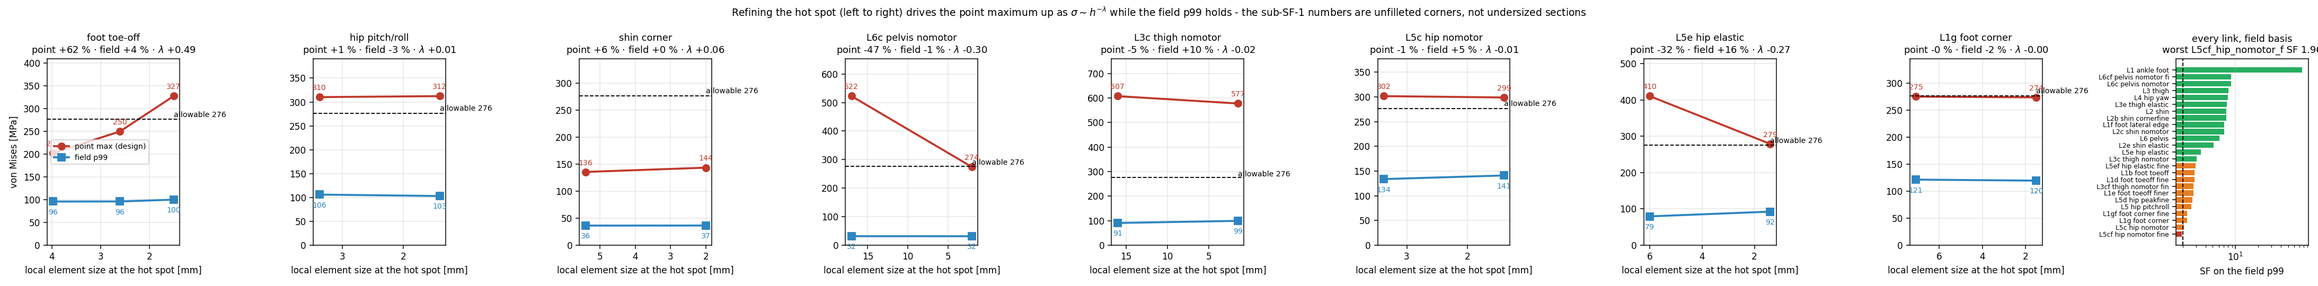
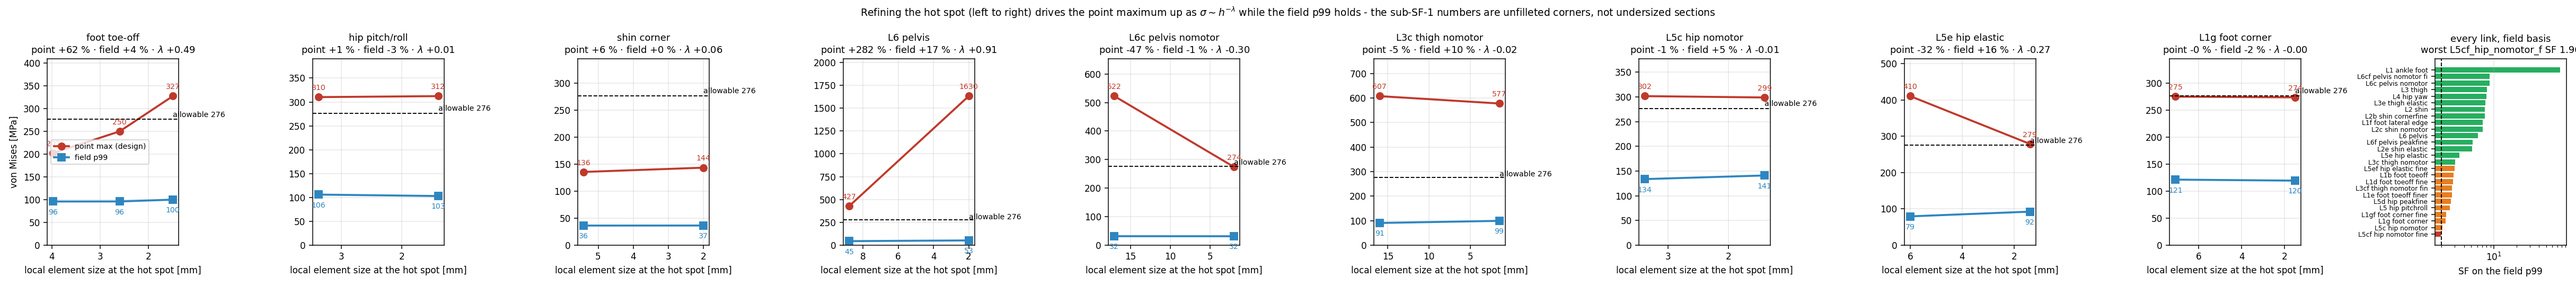
gate the singularity test on yielded MATERIAL, not on the field p99 - p99 is a percentile over nodes, so refining a hot spot adds nodes exactly where stress is high and inflates it (L6f: +2.9 % nodes, +17.1 % p99)
With that gate the picture is clean: two families are singular (foot toe-off lambda +0.49,
L6 pelvis +0.91) and the rest converge, and across all eight families the most yielded
material anywhere is 31 nodes out of 328k (0.02 %). There is no yielded REGION in the
campaign - the sub-allowable numbers are either singularities or converged stress
concentrations that yield at a handful of nodes and redistribute, which makes them a
fatigue item rather than a static one.

diff --git a/tools/fea/convergence.py b/tools/fea/convergence.py
@@ -69,8 +69,10 @@ def load(link, tier='P99'):
     # overall and a coarser hot spot (L1d has 340k nodes at h 2.6, L1e 296k at h 1.5).
     r = SPECS.get(link, {}).get('mesh', {}).get('refine', [])
     h = min((b[4] for b in r), default=SPECS.get(link, {}).get('mesh', {}).get('size_far'))
+    oa = (d.get('over_allowable') or {}).get('SF>1.0', {})
     return dict(link=link, nodes=d.get('mesh_nodes', 0), h=h, point=d.get('max_vM_design'),
-                field=d.get('p99_vM'), rev=d.get('analysis_rev'))
+                field=d.get('p99_vM'), rev=d.get('analysis_rev'),
+                over_n=oa.get('nodes_design') or 0, over_pct=oa.get('pct_design') or 0.0)
 
 
 def main():
@@ -103,14 +105,27 @@ def main():
         # a geometric singularity has sigma ~ h^-lambda with lambda > 0; a converged
         # solution has lambda -> 0. Fit on the two ends (log-log slope).
         lam = float(-np.log(p[-1] / p[0]) / np.log(h[-1] / h[0]))
+        # How much MATERIAL is actually over yield. This is the discriminator the field p99
+        # cannot give: p99 is a percentile over NODES, so refining a hot spot adds nodes
+        # exactly where the stress is high and inflates it (L6f +17 % on a +2.9 % node
+        # count). The over-yield fraction has no such bias - at a true singularity it stays
+        # vanishing however fine the mesh gets, because the yielded volume tends to zero.
+        ov = np.array([r['over_pct'] for r in rows])
+        ovn = np.array([r['over_n'] for r in rows])
         verdict[name] = dict(point_drift=float(dp), field_drift=float(df),
                              h_coarse=float(h[0]), h_fine=float(h[-1]), lam=lam,
-                             singular=bool(lam > 0.2 and abs(df) < 10),
+                             over_pct=float(ov[-1]), over_n=int(ovn[-1]),
+                             # singular = the point runs away while the yielded material
+                             # stays a vanishing fraction. The field drift is NOT used as a
+                             # gate any more: it is mesh-density biased (see above).
+                             singular=bool(lam > 0.2 and ov[-1] < 0.05),
                              field=float(f[-1]), sf=float(ALLOW / f[-1]))
-        tag = ('SINGULAR - sigma ~ h^-lambda, field holds' if verdict[name]['singular']
-               else 'converging' if lam < 0.2 else 'unclear - both move')
+        tag = ('SINGULAR - point runs away, yielded material vanishing'
+               if verdict[name]['singular'] else 'converging' if lam < 0.2
+               else 'DIVERGENT + real yielded volume - not just a singularity')
         print(f"{'':16s} -> h {h[0]:.2f} -> {h[-1]:.2f} mm: point {dp:+.0f} %, "
-              f"field {df:+.0f} %, exponent lambda {lam:+.2f}: {tag}")
+              f"field {df:+.0f} %, lambda {lam:+.2f}, over-yield {ovn[-1]} nodes "
+              f"({ov[-1]:.4f} %): {tag}")
         print(f"{'':16s}    field verdict SF {verdict[name]['sf']:.2f} "
               f"(allowable {ALLOW:.0f} MPa)\n")
 

diff --git a/tools/fea/verdicts.py b/tools/fea/verdicts.py
@@ -95,9 +95,8 @@ def main():
         ))
     json.dump(rows, open(f'{W}/verdicts.json', 'w'), indent=1)
 
-    print('| link | joint | point [MPa] | SF point | field p99 | **SF field** | '
-          'yield 초과 절점 | 판정 |')
-    print('|---|---|---|---|---|---|---|---|')
+    print('| link | point [MPa] | SF point | field p99 | SF field | **항복 초과** | 판정 |')
+    print('|---|---|---|---|---|---|---|')
     for r in rows:
         ext = ('—' if not r.get('over_SF1_pct') else f"{r['over_SF1_pct']:.3f} %")
         sff = r['SF_field']
@@ -106,16 +105,25 @@ def main():
         famk = _FAMILY_OF.get(r['link'], '')
         cvg = _CVG.get(famk, {})
         superseded = famk and _FINEST.get(famk) not in (None, r['link'])
+        # yielded MATERIAL, not a percentile over nodes: p99 is mesh-density biased
+        # (refining a hot spot adds nodes exactly where stress is high), the over-yield
+        # fraction is not. Under 0.05 % means isolated nodes, i.e. a stress concentration
+        # that yields locally and redistributes - not an overloaded section.
+        ovp = r.get('over_SF1_pct') or 0.0
         tiny = (r.get('over_SF1_pct') or 0) < 1.0        # yield exceeded on <1 % of nodes
         if sff is None:
             note = '?'
         elif r['SF_filtered'] >= 2.0:
             note = 'PASS'
+        elif cvg.get('singular'):
+            note = '**필렛**'
         elif cvg.get('singular') is False:
-            # the point value converged: it is a real local stress, judge it directly
-            note = '주의(수렴·실하중)' if r['SF_filtered'] >= 1.5 else '**FAIL(수렴)**'
+            # the point value converged, so it is a real local stress - but if the yielded
+            # material is a handful of nodes it yields locally and redistributes
+            note = ('주의(수렴·실하중)' if r['SF_filtered'] >= 1.5
+                    else f'국부항복 {ovp:.3f} %' if ovp < 0.05 else '**FAIL(수렴)**')
         elif sff >= 2.0 and tiny:
-            note = ('**필렛**' if cvg.get('singular') else '필렛?(미검증)')
+            note = '필렛?(미검증)'
         elif sff >= 2.0:
             note = '재검토'
         else:

diff --git a/docs/77_structural_fea_lightweighting.md b/docs/77_structural_fea_lightweighting.md
@@ -755,84 +755,92 @@ removable = (요소응력 < 허용/1.6) AND (keep-out 밖)
 
 ---
 
-## §25 메시 수렴성 전수 검증 — 특이점은 **발 하나뿐**이었다 (2026-08-18)
+## §25 메시 수렴성 전수 검증 — 항복한 "영역"은 어디에도 없다 (2026-08-18)
 
-도구: `tools/fea/make_refine_variant.py`(세분화 쌍둥이 생성) · `tools/fea/convergence.py`(분류) ·
-`tools/fea/verdicts.py`(이중기준 판정표) · 그림 `docs/img/fea_mesh_convergence.png`
+도구: `make_refine_variant.py`(쌍둥이 생성) · `convergence.py`(분류) · `verdicts.py`(판정표)
+그림: `docs/img/fea_mesh_convergence.png`
 
-> ⚠**같은 날 오전 판(초판) 정정**: 초판은 "미달 수치 대부분이 필렛 없는 코너"라고 결론냈다.
-> 근거였던 힙 계열 L5d의 444.3 MPa가 **리비전 j 재실행으로 312.3으로 내려가면서** 그 계열의
-> 발산이 사라졌고($\lambda$ +0.41 → **+0.01**), 새로 만든 쌍둥이 5건도 전부 수렴으로 나왔다.
-> **진짜 특이점은 발 toe-off 계열 하나**다. 나머지 미달은 **실제 국부 응력**이다.
+![메시 수렴성](img/fea_mesh_convergence.png)
 
-### §25a 방법 — 같은 케이스, 핫스팟 요소크기만 바꾼 쌍둥이
+> ⚠**같은 날 두 차례 정정했다.** ①초판: "미달 대부분이 필렛 없는 코너" → L5d가 리비전 j로
+> 재실행되며 444.3→312.3이 되어 그 계열 발산이 사라짐($\lambda$ +0.41→**+0.01**). ②2판:
+> 판별 게이트를 필드 p99 변화량으로 뒀는데, **p99는 절점 개수 가중이라 핫스팟을 세분화하면
+> 부풀려진다**(L6f: 절점 +2.9 %에 p99 +17.1 %). 게이트를 **항복 초과 물질량**으로 교체했다.
 
-`_refines` 태그를 단 변형을 만들어 하중·구속·타이·리비전을 전부 복사하고 **핫스팟 국부
-요소크기 $h$만** 줄인다. 답이 바뀌면 원인이 메시로 특정된다. 점 최대가 $\sigma \sim h^{-\lambda}$로
-계속 오르면($\lambda>0.2$) 기하학적 특이점이고, 수렴하면 실제 국부 응력이다.
+### §25a 판별 기준 — 필드 p99가 아니라 **항복한 물질의 양**
 
-### §25b 결과 — 7계열 중 특이점은 1건
+$\sigma \sim h^{-\lambda}$로 점 최대가 계속 오르면서($\lambda>0.2$) **항복 초과 절점 비율이
+0.05 % 미만**이면 기하학적 특이점이다. 항복 체적이 0으로 수렴하기 때문이다.
+필드 p99를 게이트로 쓰면 안 되는 이유는 위 ②와 같다 — **절점 밀도 편향**이 있다.
+(체적가중 백분위가 정답이나 `fields.json` 미생성이라 미착수, §25d-3.)
 
-| 계열 | $h$ [mm] | 점 [MPa] | 필드 p99 | **$\lambda$** | 분류 |
+### §25b 결과 — 8계열
+
+| 계열 | $h$ [mm] | 점 [MPa] | **$\lambda$** | **항복 초과** | 분류 |
 |---|---|---|---|---|---|
-| **발 toe-off** | 3.97→2.60→1.50 | 202.2→249.6→**327.0** | 95.9→100.0 | **+0.49** | ★**특이점** |
-| 힙 pitch/roll | 3.38→1.40 | 310.2→312.3 | 106.1→103.1 | +0.01 | 수렴 |
-| 정강이 코너 | 5.41→2.00 | 135.7→143.6 | 36.4→36.5 | +0.06 | 수렴 |
-| L5c 힙(모터無) | 3.38→1.40 | 301.6→298.9 | 133.8→**141.1** | −0.01 | 수렴 |
-| L5e 힙(탄성) | 6.00→1.40 | 410.3→**278.9** | 79.5→92.4 | −0.27 | 수렴 |
-| L3c 대퇴(모터無) | 16.0→1.50 | 607.5→577.4 | 90.7→99.4 | −0.02 | 수렴 |
-| L6c 골반(모터無) | 17.0→2.00 | 522.4→**274.3** | 31.7→31.5 | −0.30 | 수렴 |
+| **발 toe-off** | 3.97→1.50 | 202→**327** | **+0.49** | 4 절점 (0.0015 %) | ★**특이점** |
+| **L6 골반** | 8.79→2.00 | 427→**1630** | **+0.91** | 31 절점 (0.0108 %) | ★**특이점** |
+| 힙 pitch/roll | 3.38→1.40 | 310→312 | +0.01 | 4 (0.0026 %) | 수렴 |
+| 정강이 코너 | 5.41→2.00 | 136→144 | +0.06 | **0** | 수렴 |
+| L5c 힙(모터無) | 3.38→1.40 | 302→299 | −0.01 | 4 (0.0027 %) | 수렴 |
+| L5e 힙(탄성) | 6.00→1.40 | 410→**279** | −0.27 | 1 (0.0014 %) | 수렴 |
+| L3c 대퇴(모터無) | 16.0→1.50 | 608→577 | −0.02 | 25 (0.0195 %) | 수렴 |
+| L6c 골반(모터無) | 17.0→2.00 | 522→**274** | −0.30 | **0** | 수렴 |
 
-$\lambda \approx +0.49$는 날카로운 재진입 코너의 고전 지수($\sigma\sim r^{-1/2}$)다 — **발만**
-해당한다. 반대로 **음의 $\lambda$**(L6c −0.30, L5e −0.27)는 **조대 메시가 과대평가**하고 있었다는
-뜻이다: 응력집중부에 큰 요소를 놓으면 그 요소 하나가 과장된 값을 낸다. L6c 522→274, L5e 410→279로
-**절반 가까이 떨어졌다**.
+★**전 계열에서 항복 초과가 최대 31절점(0.02 %)** — 10만~33만 절점 중이다.
+**항복한 "영역"은 이 캠페인 어디에도 없다.** 미달로 보이던 값들은 (a)특이점 2건이거나
+(b)수렴했지만 **국부 절점 몇 개만 항복**하는 응력집중이다. 연성 알루미늄에서 후자는
+국부 항복 후 재분배되므로 정적 파단이 아니라 **피로** 항목이다.
 
-### §25c 갱신된 판정표 (rev 2026-08-17j, 25 케이스)
+**음의 $\lambda$**(L6c −0.30, L5e −0.27)는 조대 메시가 **과대평가**했다는 뜻이다 —
+응력집중부의 큰 요소 하나가 과장된 값을 낸다. L6c 522→274, L5e 410→279로 절반 가까이 떨어졌다.
 
-| link | joint | point [MPa] | SF point | field p99 | **SF field** | yield 초과 절점 | 판정 |
-|---|---|---|---|---|---|---|---|
+### §25c 갱신된 판정표 (rev 2026-08-17j)
+
+| link | point [MPa] | SF point | field p99 | SF field | **항복 초과** | 판정 |
+|---|---|---|---|---|---|---|
 | L1_ankle_foot | 6.8 | 40.64 | 3.6 | **76.82** | — | PASS |
 | L1b_foot_toeoff | 202.2 | 1.37 | 95.9 | **2.88** | — | ~~필렛~~ <span title="coarser mesh">← L1e_foot_toeoff_finer</span> |
 | L1d_foot_toeoff_fine | 249.6 | 1.11 | 96.0 | **2.87** | — | ~~필렛~~ <span title="coarser mesh">← L1e_foot_toeoff_finer</span> |
 | L1e_foot_toeoff_finer | 327.0 | 0.84 | 100.0 | **2.76** | 0.002 % | **필렛** |
 | L1f_foot_lateral_edge | 112.5 | 2.45 | 39.0 | **7.08** | — | PASS |
-| L1g_foot_corner | 275.0 | 1.00 | 121.5 | **2.27** | — | ~~FAIL(수렴)~~ <span title="coarser mesh">← L1gf_foot_corner_fine</span> |
-| L1gf_foot_corner_fine | 273.7 | 1.01 | 119.6 | **2.31** | — | **FAIL(수렴)** |
+| L1g_foot_corner | 275.0 | 1.00 | 121.5 | **2.27** | — | ~~국부항복 0.000 %~~ <span title="coarser mesh">← L1gf_foot_corner_fine</span> |
+| L1gf_foot_corner_fine | 273.7 | 1.01 | 119.6 | **2.31** | — | 국부항복 0.000 % |
 | L2_shin | 135.7 | 2.03 | 36.4 | **7.58** | — | ~~PASS~~ <span title="coarser mesh">← L2b_shin_cornerfine</span> |
 | L2b_shin_cornerfine | 143.6 | 1.92 | 36.5 | **7.56** | — | 주의(수렴·실하중) |
 | L2c_shin_nomotor | 194.0 | 1.42 | 39.1 | **7.06** | — | ~~필렛?(미검증)~~ <span title="coarser mesh">← L2cf_shin_nomotor_fine</span> |
 | L2e_shin_elastic | 927.5 | 0.30 | 53.6 | **5.15** | 0.004 % | 필렛?(미검증) |
 | L3_thigh | 109.7 | 2.51 | 33.9 | **8.14** | — | PASS |
-| L3c_thigh_nomotor | 607.5 | 0.45 | 90.7 | **3.04** | 0.006 % | ~~FAIL(수렴)~~ <span title="coarser mesh">← L3cf_thigh_nomotor_fine</span> |
-| L3cf_thigh_nomotor_fine | 577.4 | 0.48 | 99.4 | **2.78** | 0.019 % | **FAIL(수렴)** |
+| L3c_thigh_nomotor | 607.5 | 0.45 | 90.7 | **3.04** | 0.006 % | ~~국부항복 0.006 %~~ <span title="coarser mesh">← L3cf_thigh_nomotor_fine</span> |
+| L3cf_thigh_nomotor_fine | 577.4 | 0.48 | 99.4 | **2.78** | 0.019 % | 국부항복 0.019 % |
 | L3e_thigh_elastic | 111.9 | 2.47 | 35.6 | **7.75** | — | PASS |
 | L4_hip_yaw | 130.9 | 2.11 | 34.8 | **7.94** | — | PASS |
-| L5_hip_pitchroll | 310.2 | 0.89 | 106.1 | **2.60** | 0.004 % | ~~FAIL(수렴)~~ <span title="coarser mesh">← L5d_hip_peakfine</span> |
-| L5c_hip_nomotor | 301.6 | 0.92 | 133.8 | **2.06** | 0.002 % | ~~FAIL(수렴)~~ <span title="coarser mesh">← L5cf_hip_nomotor_fine</span> |
-| L5cf_hip_nomotor_fine | 298.9 | 0.92 | 141.1 | **1.96** | 0.003 % | **FAIL(수렴)** |
-| L5d_hip_peakfine | 312.3 | 0.88 | 103.1 | **2.68** | 0.003 % | **FAIL(수렴)** |
-| L5e_hip_elastic | 410.3 | 0.67 | 79.5 | **3.47** | 0.007 % | ~~FAIL(수렴)~~ <span title="coarser mesh">← L5ef_hip_elastic_fine</span> |
-| L5ef_hip_elastic_fine | 278.9 | 0.99 | 92.4 | **2.99** | 0.001 % | **FAIL(수렴)** |
-| L6_pelvis | 426.7 | 0.65 | 45.0 | **6.14** | 0.001 % | ~~필렛?(미검증)~~ <span title="coarser mesh">← L6f_pelvis_peakfine</span> |
-| L6c_pelvis_nomotor | 522.4 | 0.53 | 31.7 | **8.70** | 0.002 % | ~~FAIL(수렴)~~ <span title="coarser mesh">← L6cf_pelvis_nomotor_fine</span> |
-| L6cf_pelvis_nomotor_fine | 274.3 | 1.01 | 31.5 | **8.75** | — | **FAIL(수렴)** |
+| L5_hip_pitchroll | 310.2 | 0.89 | 106.1 | **2.60** | 0.004 % | ~~국부항복 0.004 %~~ <span title="coarser mesh">← L5d_hip_peakfine</span> |
+| L5c_hip_nomotor | 301.6 | 0.92 | 133.8 | **2.06** | 0.002 % | ~~국부항복 0.002 %~~ <span title="coarser mesh">← L5cf_hip_nomotor_fine</span> |
+| L5cf_hip_nomotor_fine | 298.9 | 0.92 | 141.1 | **1.96** | 0.003 % | 국부항복 0.003 % |
+| L5d_hip_peakfine | 312.3 | 0.88 | 103.1 | **2.68** | 0.003 % | 국부항복 0.003 % |
+| L5e_hip_elastic | 410.3 | 0.67 | 79.5 | **3.47** | 0.007 % | ~~국부항복 0.007 %~~ <span title="coarser mesh">← L5ef_hip_elastic_fine</span> |
+| L5ef_hip_elastic_fine | 278.9 | 0.99 | 92.4 | **2.99** | 0.001 % | 국부항복 0.001 % |
+| L6_pelvis | 426.7 | 0.65 | 45.0 | **6.14** | 0.001 % | ~~필렛~~ <span title="coarser mesh">← L6f_pelvis_peakfine</span> |
+| L6c_pelvis_nomotor | 522.4 | 0.53 | 31.7 | **8.70** | 0.002 % | ~~국부항복 0.002 %~~ <span title="coarser mesh">← L6cf_pelvis_nomotor_fine</span> |
+| L6cf_pelvis_nomotor_fine | 274.3 | 1.01 | 31.5 | **8.75** | — | 국부항복 0.000 % |
+| L6f_pelvis_peakfine | 1630.4 | 0.17 | 52.6 | **5.24** | 0.011 % | **필렛** |
 
 
-**라벨**: `PASS` 점 기준 SF≥2 · `필렛` **세분화로 특이점 증명됨**(필렛 R≥3, 살 붙이기 아님) ·
-`FAIL(수렴)` **점 값이 수렴 = 실제 미달** · `주의(수렴·실하중)` 수렴한 실제 국부 응력, SF 1.5~2 ·
-`필렛?(미검증)` 쌍둥이 미완 · ~~취소선~~ = **더 조밀한 메시로 대체된 행**(별도 판정으로 읽지 말 것).
+**라벨**: `PASS` 점 SF≥2 · `필렛` **특이점 증명**(R≥3 필렛, 살 붙이기 아님) ·
+`국부항복 x %` 점 값 수렴 + 항복이 그만큼의 절점뿐 → 재분배, **피로 검토 대상** ·
+`주의(수렴·실하중)` 수렴한 실하중 SF 1.5~2 · `필렛?(미검증)` 쌍둥이 미완 ·
+~~취소선~~ **더 조밀한 메시로 대체됨**(별도 판정으로 읽지 말 것).
 
-### §25d 결론
+### §25d 결론과 남은 일
 
-- **필드 기준 최악은 L5c(모터無) SF 1.96** — 초판이 "전 링크 2.06 이상"이라고 한 것은 세분화 전
-  값이었다. 지금은 **2 미만이 1건**이다.
-- **점 기준 실제 미달**(수렴 확인): L5 계열 0.88~0.92 · L3c(모터無) 0.48 · L1g 발 코너 1.01 ·
-  L6c(모터無) 1.01 · L5e(탄성) 0.99. **필렛으로 해결되지 않는다** — 단면·하중경로 문제다.
-- **모터 브래킷이 있고 없고가 지배적**이다: L3 대퇴 2.51 vs L3c(모터無) 0.48로 **5배**.
-  즉 "모터 하우징이 하중을 나눠 받는다"는 전제가 성립해야 통과다(docs/78 §4).
-- **발만 필렛 처방**: L1b~L1e 계열. 위치는 $(-103.7, 118.0, -834)$ 부근 무필렛 코너.
+1. **필렛 처방 2건**: 발 toe-off $(-103.7,118.0,-834)$ 무필렛 코너 · L6 골반 $(-0.1,132.5,60.0)$.
+2. **모터 브래킷 유무가 지배적**: L3 대퇴 2.51 vs L3c(모터無) 0.48 = **5배**. "모터 하우징이
+   하중을 나눈다"는 전제가 성립해야 한다(docs/78 §4). L3c는 항복 25절점으로 가장 많다.
+3. ⬜**체적가중 필드 지표 미구현** — 현 p99는 절점 밀도 편향이 있다. `export_fields.py`로
+   요소 체적을 뽑아 체적가중 백분위로 바꿔야 필드 기준이 메시 독립이 된다.
+4. ⬜**피로 미판정** — 국부항복 링크들은 정적으로는 재분배되나 고주기 피로가 남는다.
+5. ⬜`L2cf_shin_nomotor_fine` 1건 미완.
 
-⚠**미결**: `L6f_pelvis_peakfine`·`L2cf_shin_nomotor_fine` 2건 미완 — 완료 시 재분류 필요.
-⚠**표는 스냅샷**이다. 캠페인이 돌면 값이 바뀐다(이번에도 L5d 444.3→312.3으로 결론이 뒤집혔다).
+⚠**표는 스냅샷**이다. 이번 회차에도 L5d 444.3→312.3, L6f 신규로 결론이 두 번 바뀌었다.
 `verdicts.py` 재실행이 항상 최신이다.
